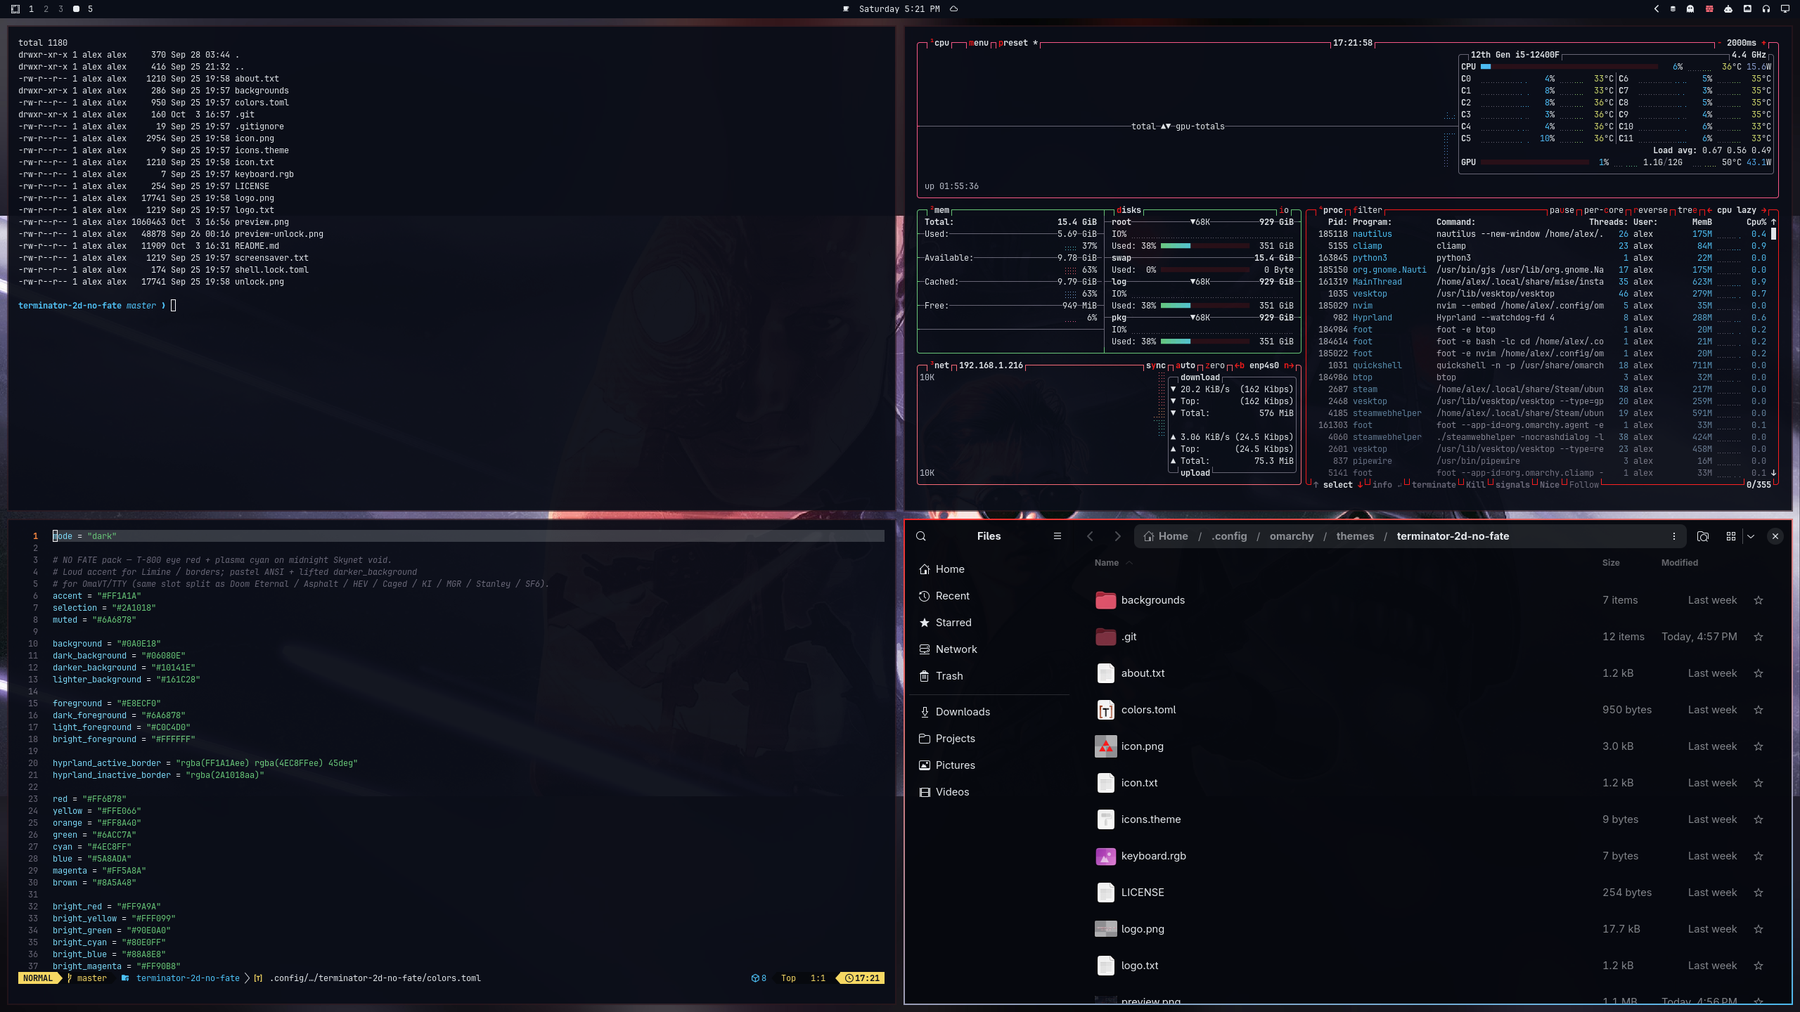
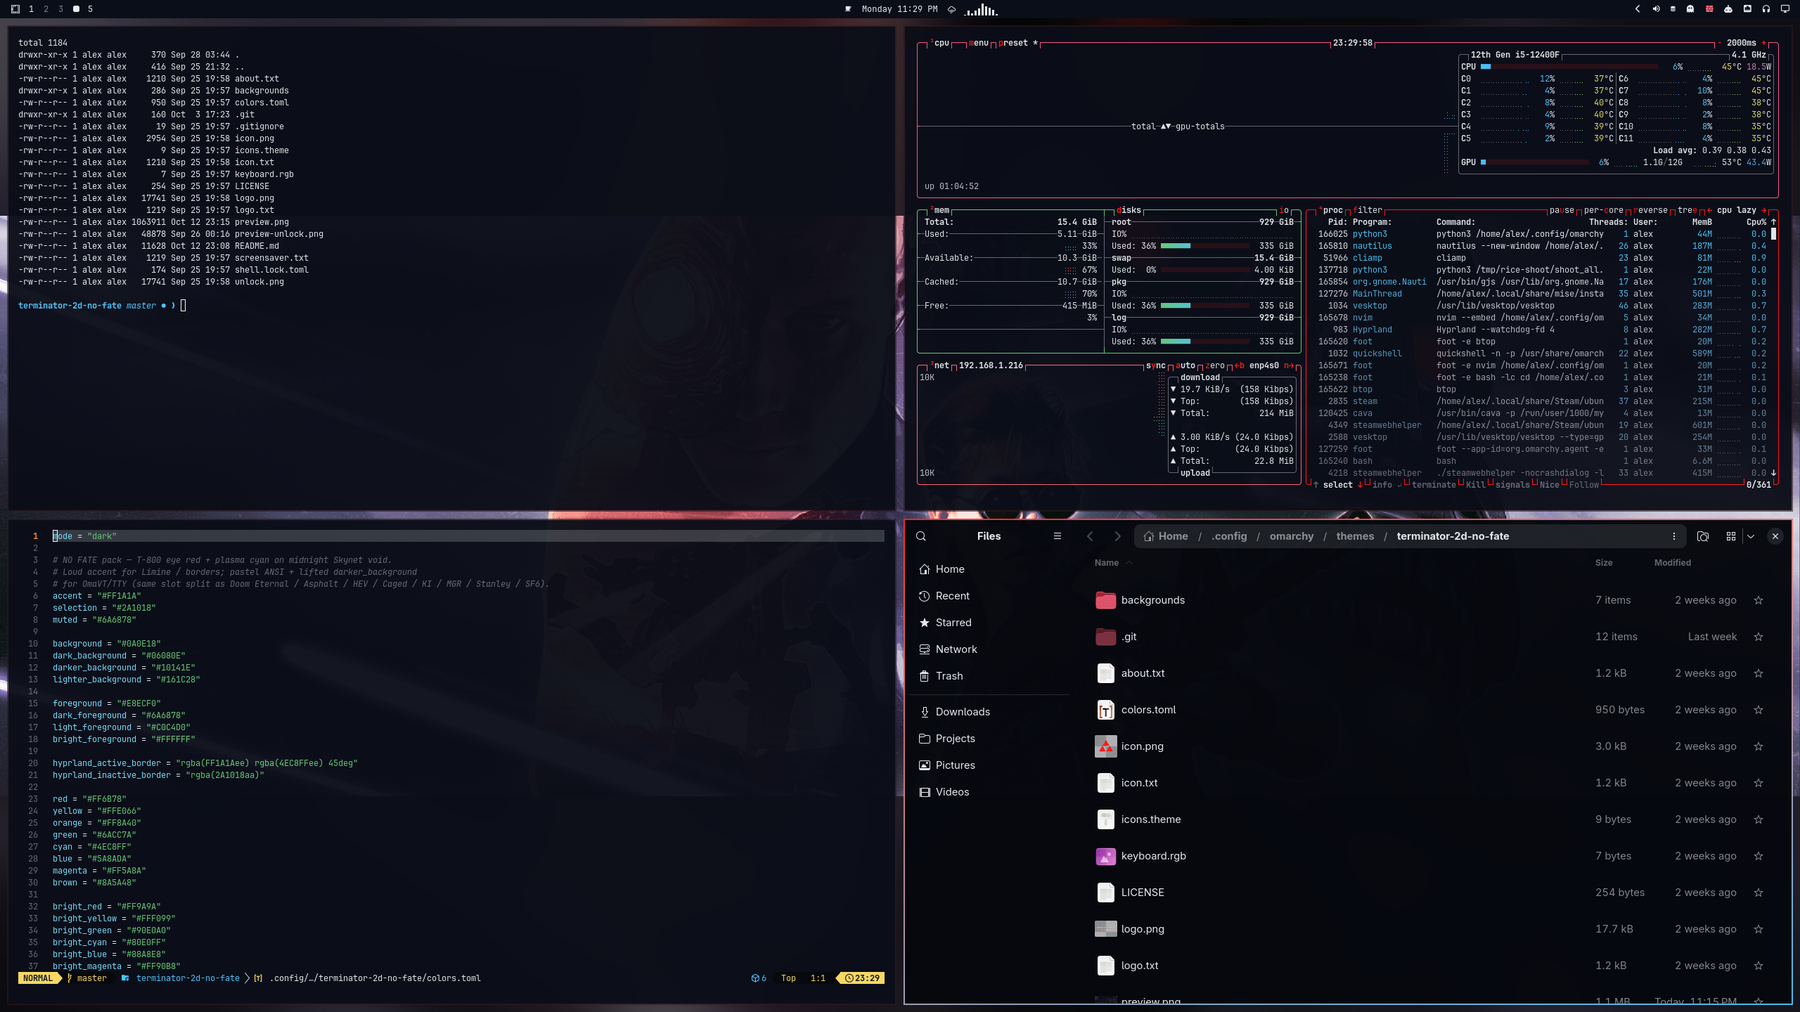
Refresh rice preview; drop backdrop cava mention from README.

diff --git a/README.md b/README.md
@@ -185,11 +185,6 @@ full wipe: `…/<plugin>/uninstall.sh --yes`.
   follows Omarchy themes live:  
   `omarchy plugin add https://github.com/ASwenia/omacord --enable`
 
-- **[Omarchy Cava](https://github.com/duncio/omarchy-cava)** — theme-aware audio
-  bars along the bottom of an empty workspace (hides when windows show up). Goes
-  well with your music when you're vibing:  
-  `omarchy plugin add https://github.com/duncio/omarchy-cava --enable`
-
 ### Agent / desktop bridge
 
 - **[OMCP](https://github.com/btsouth/omarchy-omcp)** — MCP desktop bridge:  
